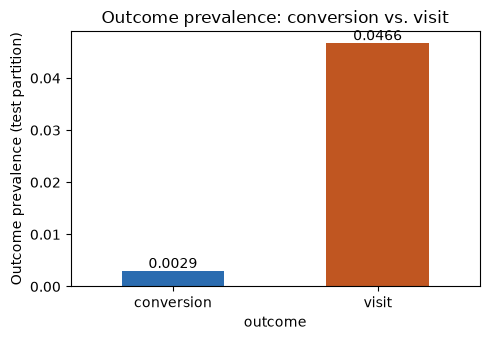
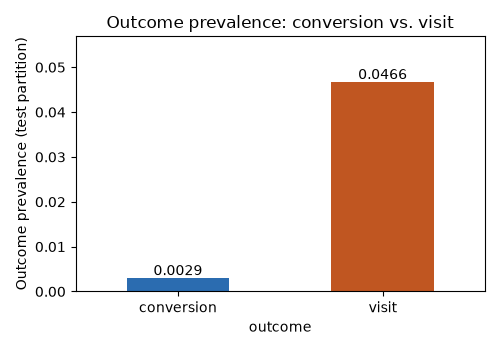
docs: polish final research memo presentation and fix prevalence figure layout (#24)

Changed region(s): [[0.0, 0.0294, 1.0, 0.9118], [0.4898, 0.9118, 0.6429, 0.9706], [0.3061, 0.7353, 0.4286, 0.7941]]

diff --git a/reports/research_memo.md b/reports/research_memo.md
@@ -1,13 +1,11 @@
 # Does Outcome Sparsity Limit Uplift-Ranking Evidence? A Comparative Analysis on CRITEO-UPLIFTv2.1
 
-*Research memo. Sources: `notebooks/reports/comparative_analysis_report.ipynb`,
-`notebooks/experiments/conversion_experiment.ipynb`, `notebooks/experiments/visit_experiment.ipynb`,
-`README.md`, and `outputs/{conversion,visit}/*/metrics.json`. Every number below is
-read directly from those artifacts. Prose identical to `docs/research_memo_draft.md`
-as of this package's assembly (Phase 4.1: Executive Summary and Conclusion revised
-for a plain-language-first readability pass; findings, numbers, and conclusions
-unchanged from the Phase 3 draft) — see `docs/pdf_preflight_review.md` for the
-editorial audit that prompted the readability revision.*
+*Research memo summarizing a comparative evaluation of causal uplift
+estimators on CRITEO-UPLIFTv2.1. All reported statistics are computed
+from held-out test-set evaluation artifacts produced by the project's
+experimental evaluation pipeline; full analysis code and computational
+provenance are available in the accompanying reproducibility
+repository.*
 
 ## Executive Summary
 
@@ -71,8 +69,6 @@ better ranking than the simpler response baseline on held-out data — and
 whether any answer to that question is stable across two related but
 distinct outcome definitions on the same population.
 
-*Evidence source: `comparative_analysis_report.ipynb` §1; README "Research objective."*
-
 ## 2. Data and Outcome Definitions
 
 Both outcomes are evaluated on the identical seeded 70/15/15
@@ -95,9 +91,9 @@ conclusions are limited by label sparsity, addressed directly in §5–§6.
 
 **Figure 1 — Outcome prevalence: conversion vs. visit**
 ![Outcome prevalence: conversion vs. visit](figures/fig1_outcome_prevalence.png)
-*Source: `comparative_analysis_report.ipynb` §2, cell `d36f5c78`. See `reports/figures/figure_list.md` for the full caption.*
 
-*Evidence source: `comparative_analysis_report.ipynb` §2, `outcome_table`; reproduced in `reports/tables/table1_outcome_definitions.csv`.*
+*Prevalence and treatment-rate figures are computed directly from the
+held-out test partition.*
 
 ## 3. Experimental Design
 
@@ -128,7 +124,8 @@ separately-fit outcome models. T-Learner and X-Learner's point estimates
 are reported in §4 for completeness but are not carried into the
 significance check.
 
-*Evidence source: `comparative_analysis_report.ipynb` §3, §5; README "Evaluation design," "Methodology notes." Reproduced in `reports/tables/table2_model_objectives.csv`.*
+*Full evaluation-protocol and modeling-methodology documentation is
+available in the project README.*
 
 ## 4. Results
 
@@ -155,9 +152,10 @@ top row.
 
 **Figure 3 — Qini curves, conversion panel**
 ![Qini curves by model, conversion vs. visit](figures/fig3_qini_curves.png)
-*Figures 2–3 show both outcomes together; see `reports/figures/figure_list.md`.*
+*Figures 2–3 show both outcomes together.*
 
-*Evidence source: `outputs/conversion/{baseline,causal_forest,uplift/xlearner,uplift/tlearner}/metrics.json`, via `comparative_analysis_report.ipynb`'s own model-comparison table for this outcome. Reproduced above as this memo's Table 3, and in full (all metrics) in `reports/tables/table3_conversion_comparison.csv`.*
+*Source: held-out test-set evaluation artifacts from the experimental
+evaluation pipeline (conversion outcome).*
 
 ### 4.2 Visit Robustness Check
 
@@ -179,7 +177,8 @@ the outcome the business optimizes for.
 
 *(Figures 2–3 above already show the visit panel alongside conversion.)*
 
-*Evidence source: `outputs/visit/{baseline,causal_forest,uplift/xlearner,uplift/tlearner}/metrics.json`, via `comparative_analysis_report.ipynb`'s own model-comparison table for this outcome. Reproduced above as this memo's Table 4, and in full (all metrics) in `reports/tables/table4_visit_comparison.csv`.*
+*Source: held-out test-set evaluation artifacts from the experimental
+evaluation pipeline (visit outcome).*
 
 ## 5. Statistical Evidence
 
@@ -213,9 +212,9 @@ applied, and none was needed to reach that more modest reading.
 
 **Figure 4 — Forest plot: is the Response-vs-Causal-Forest gap distinguishable from zero?**
 ![Forest plot of the six bootstrap CIs](figures/fig4_bootstrap_forest.png)
-*Source: `comparative_analysis_report.ipynb` §5, cell `74ab5e45`, `execution_count=15`. See `reports/figures/figure_list.md` for how this was produced and verified.*
 
-*Evidence source: `comparative_analysis_report.ipynb` §5, `BOOTSTRAP_TABLE`; `src.reporting.paired_bootstrap_gaps`. Reproduced in `reports/tables/table5_bootstrap_ci.csv`.*
+*Source: paired bootstrap significance analysis from the experimental
+evaluation pipeline.*
 
 ## 6. Discussion
 
@@ -247,8 +246,6 @@ point estimates under both outcomes. This memo does not draw a conclusion
 about meta-learner estimators in general from that observation — it is
 reported for completeness, and no bootstrap check was run on either of
 these two models against the others.
-
-*Evidence source: `comparative_analysis_report.ipynb` §6; README "Methodology notes."*
 
 ## 7. Limitations
 
@@ -284,8 +281,6 @@ these two models against the others.
   estimator X ranked better than estimator Y *here*," not a universal
   claim about either an outcome or a method.
 
-*Evidence source: `comparative_analysis_report.ipynb` "Limitations"; `docs/research_memo_plan.md` Reviewer Attack Points.*
-
 ## 8. Conclusion
 
 Under conversion, the primary business outcome, Response LightGBM's
@@ -314,10 +309,10 @@ a different model choice.
 
 ---
 
-## Final Self-Check — Reviewer Attack Points
+## Robustness of Conclusions to Anticipated Critiques
 
-Carried forward from `docs/research_memo_plan.md`, checked against this
-draft specifically:
+The following methodological critiques were anticipated during the
+preparation of this analysis, together with how each is addressed above:
 
 1. **Sparsity vs. genuinely different effect structure** — addressed: §6
    explicitly states this as an inference and an unverified assumption,
@@ -342,6 +337,5 @@ draft specifically:
    draft uses "robustness check" throughout and does not use "sensitivity
    analysis" as a label for the visit comparison.
 
-No new attack points were identified specific to this draft's prose beyond
-the six carried forward from the plan; all six have a stated resolution or
-an explicit, honestly-flagged limitation above.
+Each of the six critiques above has either a stated resolution in the
+main text or an explicit, honestly-flagged limitation in Section 7.
